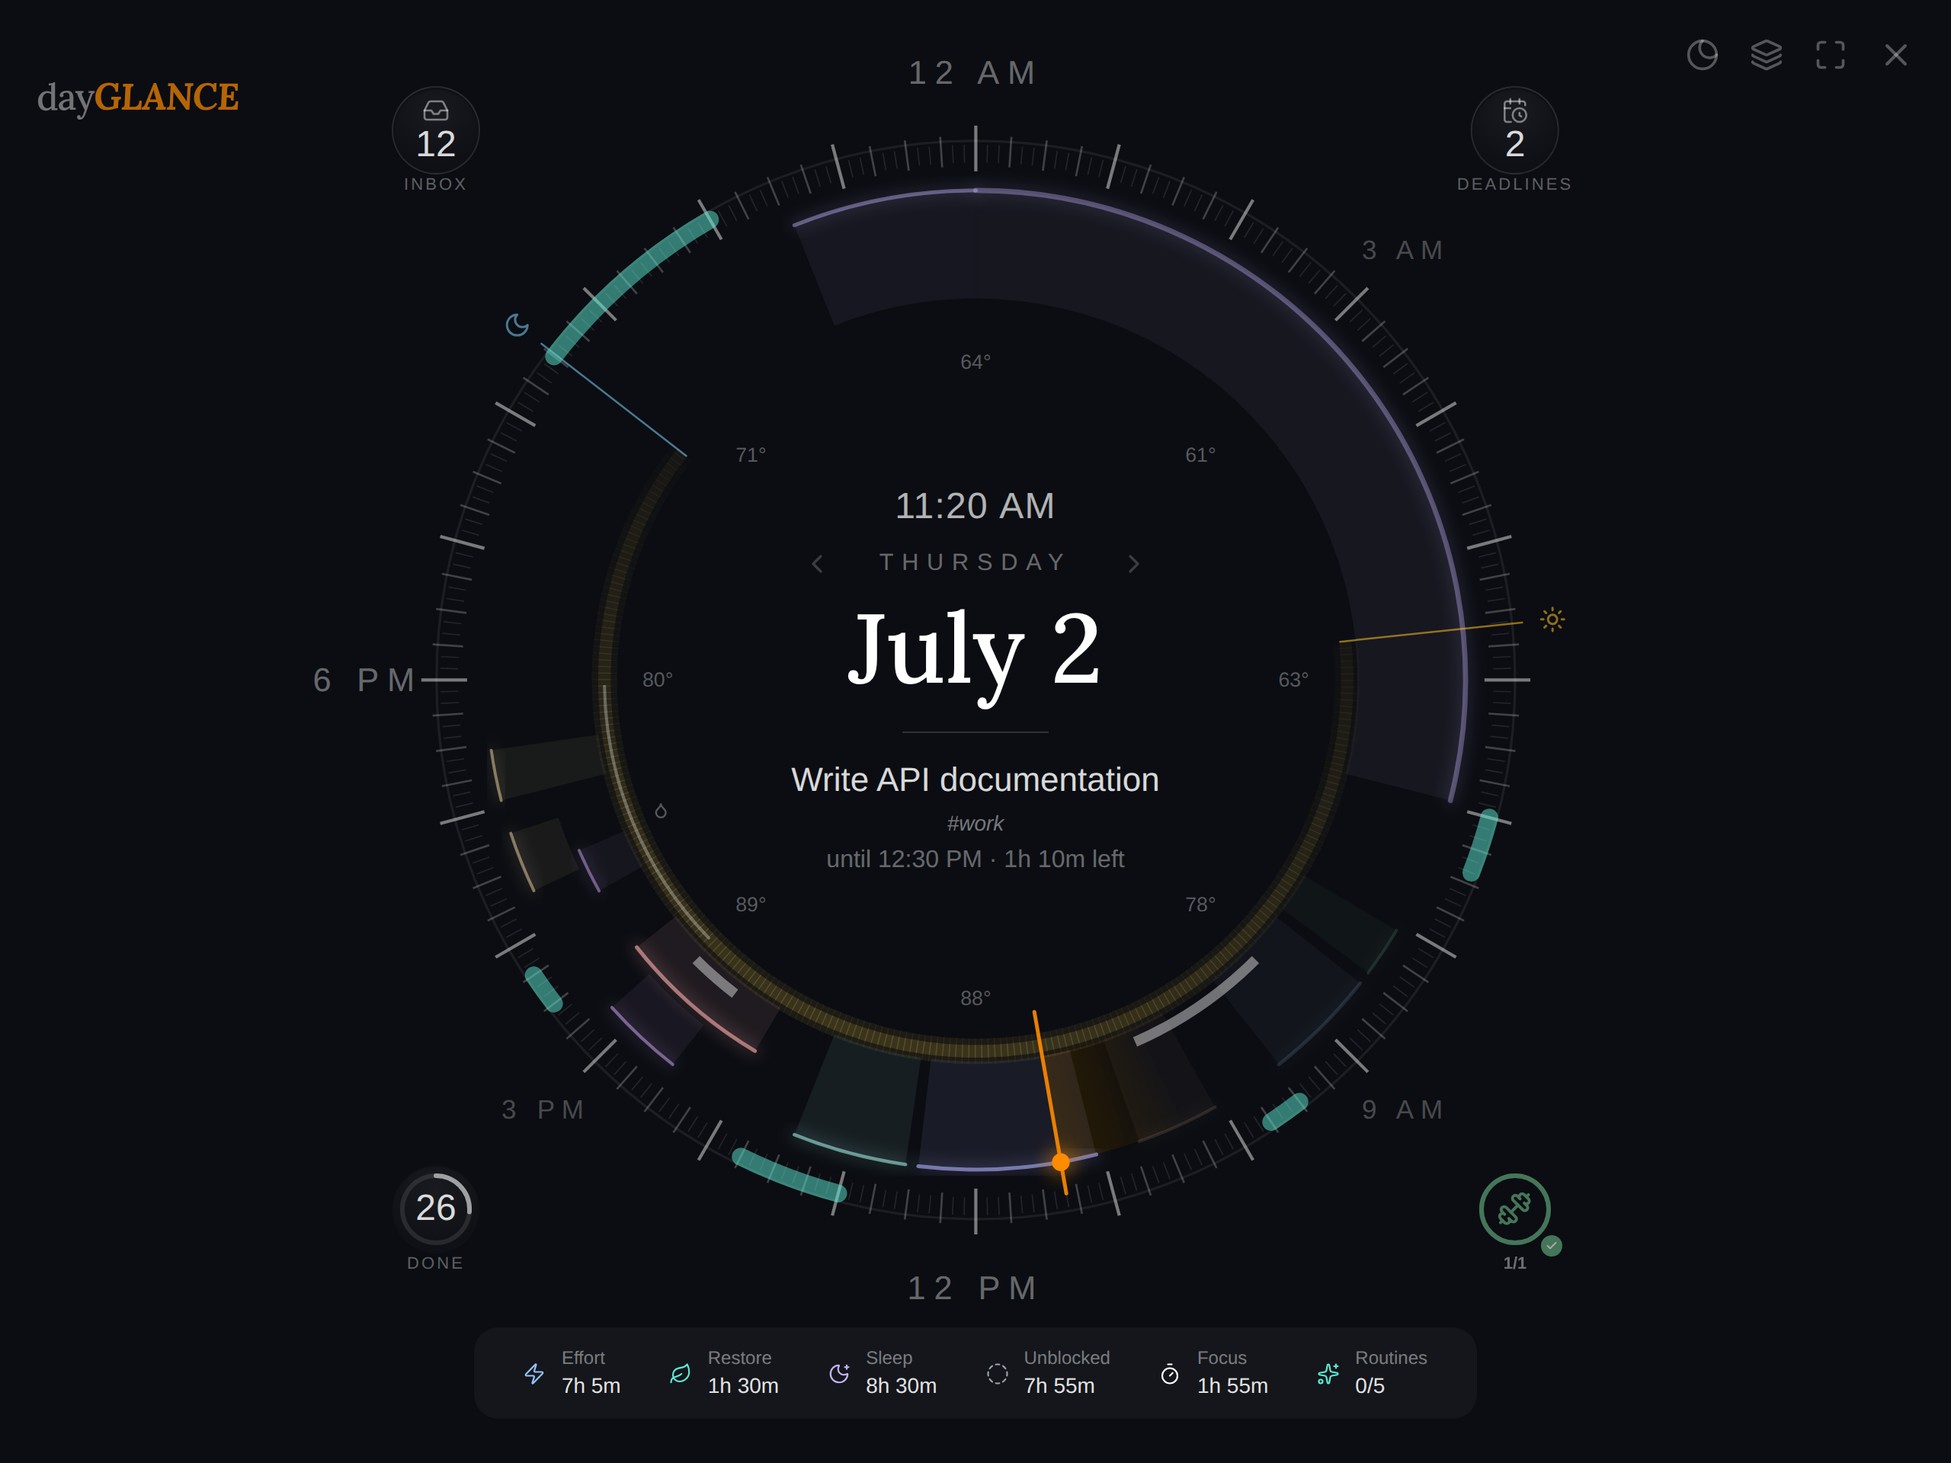
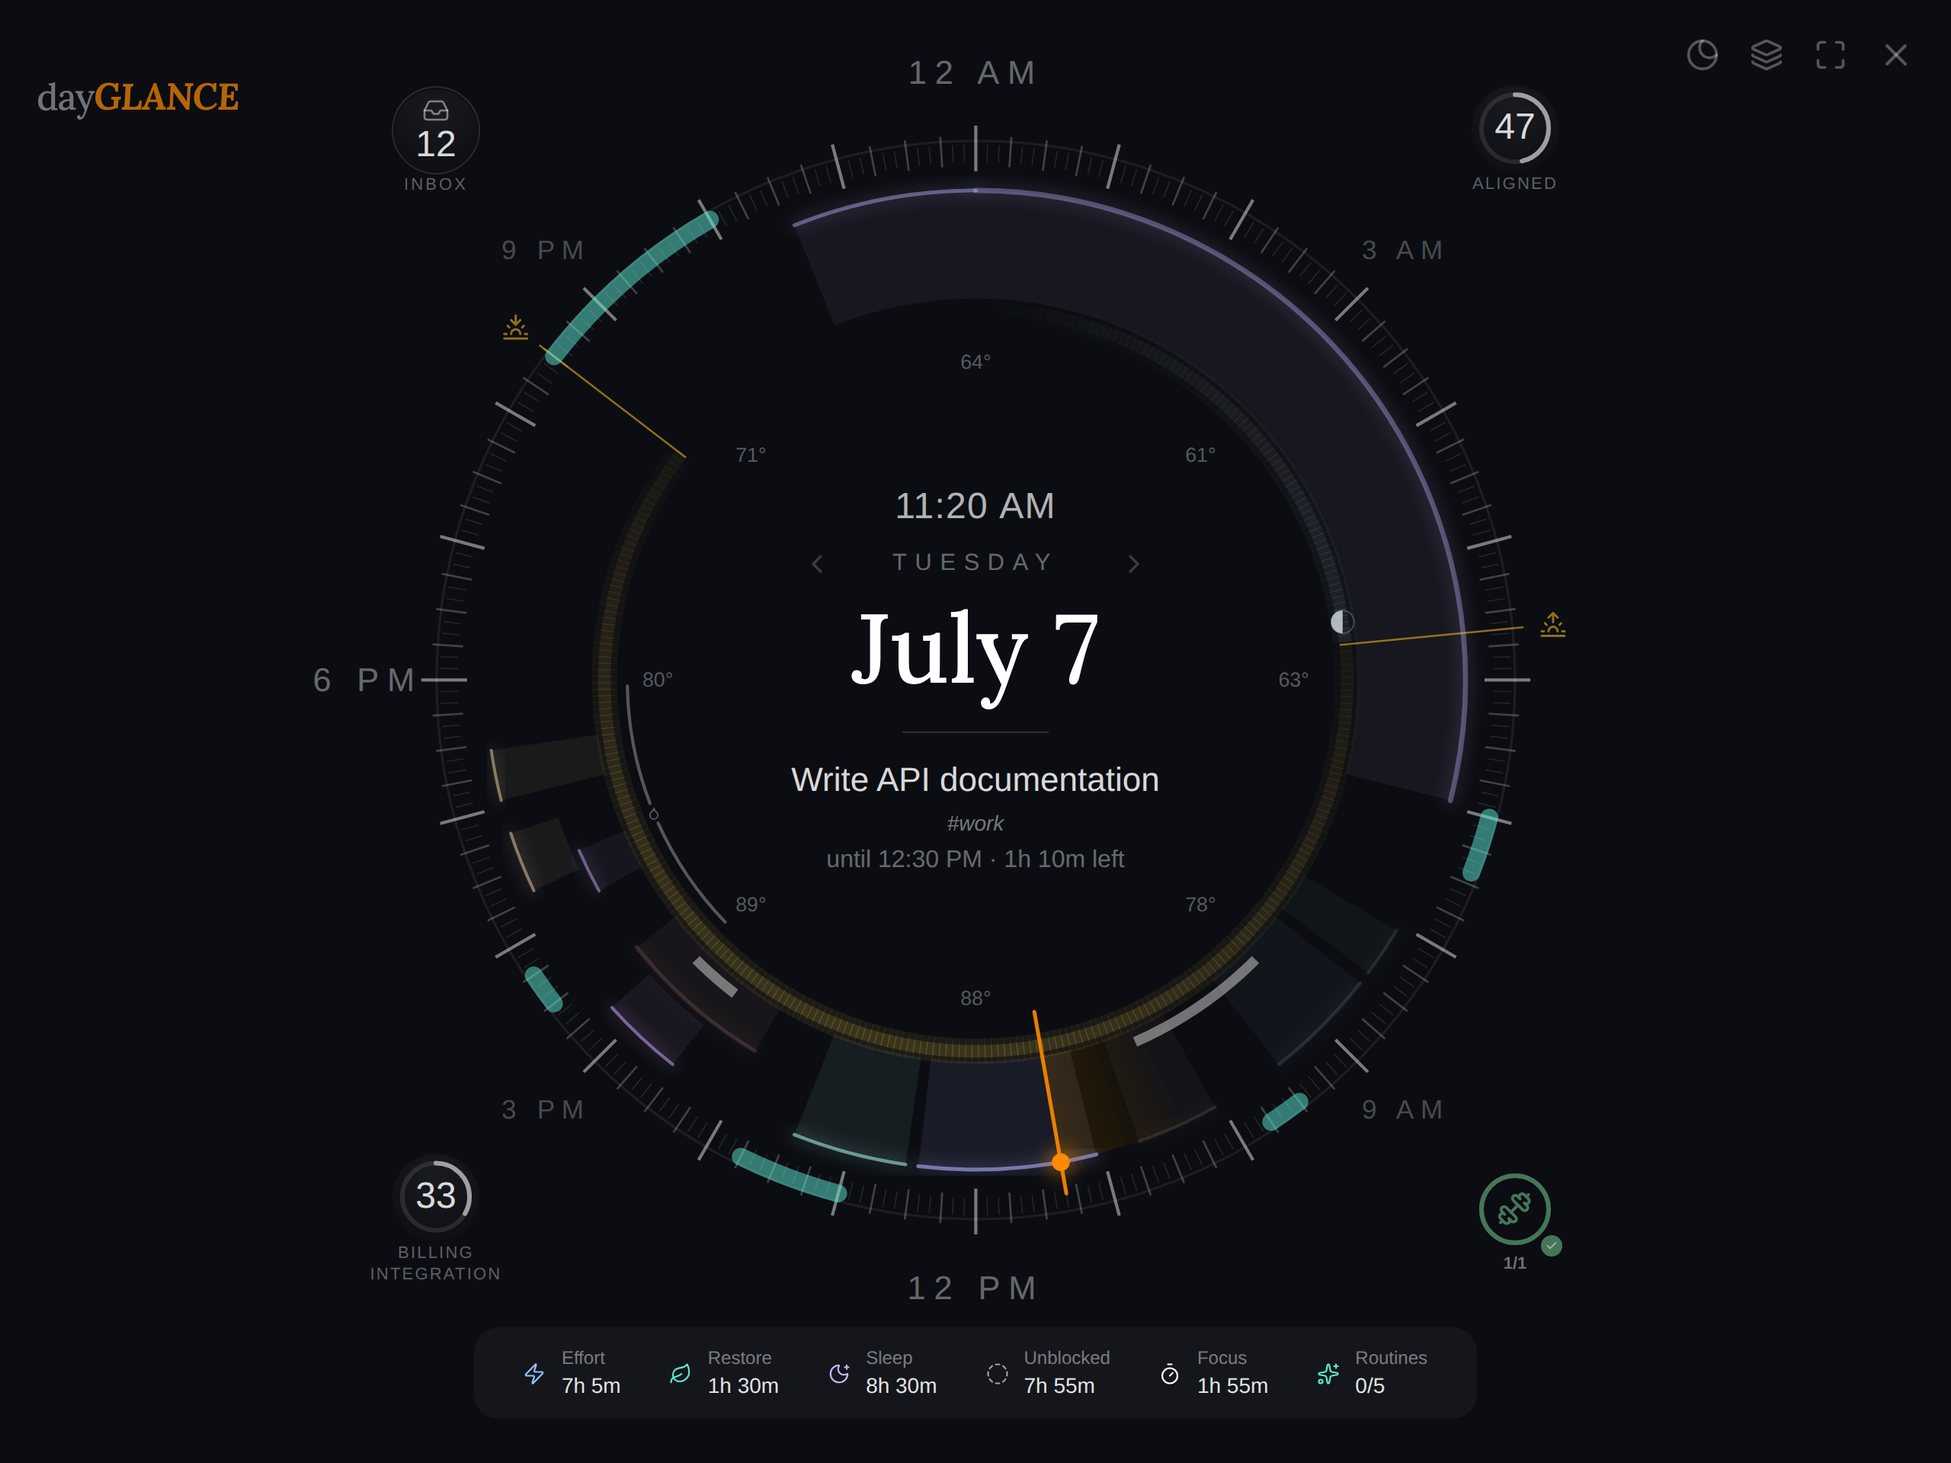
Dial: ride the moon glyph on its apex, and refresh the README capture
The glyph sat at the middle of the longest drawn stretch. That is not a
fact about the moon, and reading the face showed it: the mark wandered
left or right of where the moon actually was, and jumped between the two
as the stretches changed shape night to night.

It now rides the apex - the minute the moon climbs highest - in whichever
drawn stretch it climbs highest in. On a night whose stretch contains the
transit it lands within two minutes of it.

The reason the midpoint was chosen originally still stands, so it is
handled rather than avoided. Clipping to the sun-down hours routinely
ends a stretch while the moon is still rising, which puts the highest
DRAWN minute flush against the sunrise hairline. The glyph is held
MOON_GLYPH_EDGE_PAD_MIN off both ends, so it stays inside the band and
still reads as "highest just as the sun came up", which is what happened.

Each step now carries its altitude and moonStretches carries each
stretch's peak, so the placement is a pure question about the steps.

One inconsistency fixed on the way, which the new test caught: the
no-location early return still named the field peakMin after the rename
to glyphMin, so that one path handed callers undefined. The component
never reached it, but the shape was wrong.

The README capture moves to 7 July 2026, a last quarter over Denver. A
quarter moon is the one phase that reads unmistakably AS a phase at glyph
size - a straight terminator rather than a disc - and it cannot also sit
[…]

diff --git a/src/utils/dayDial.test.js b/src/utils/dayDial.test.js
@@ -28,6 +28,7 @@ import {
   normaliseComplicationSlots,
   COMPLICATION_SLOT_COUNT,
   moonStretches,
+  MOON_GLYPH_EDGE_PAD_MIN,
   precipArcSegments,
   precipRuns,
   stepDialSelection,
@@ -619,8 +620,12 @@ describe('computeMoonBand', () => {
 
   it('draws nothing without a location', () => {
     const date = new Date(2026, 6, 2, 12);
-    expect(computeMoonBand(date, null, sunFor(date)).steps).toEqual([]);
-    expect(computeMoonBand(date, DEN, null).steps).toEqual([]);
+    for (const band of [computeMoonBand(date, null, sunFor(date)), computeMoonBand(date, DEN, null)]) {
+      expect(band.steps).toEqual([]);
+      // The same shape a drawn band has, so a caller reading glyphMin does
+      // not get undefined on the one path that returns early.
+      expect(band.glyphMin).toBeNull();
+    }
   });
 
   it('never draws while the sun is up', () => {
@@ -647,20 +652,33 @@ describe('computeMoonBand', () => {
     // date for it — whether any given date splits depends on where the
     // device's midnight falls, so the astronomy is covered in lunar.test.js
     // and this covers the thing that could actually break.
-    const steps = [
-      { startMin: 0, endMin: 4 }, { startMin: 4, endMin: 8 },
-      { startMin: 1400, endMin: 1404 }, { startMin: 1404, endMin: 1440 },
-    ];
-    expect(moonStretches(steps)).toEqual([
+    const runs = moonStretches([
+      { startMin: 0, endMin: 4, alt: 20 }, { startMin: 4, endMin: 8, alt: 18 },
+      { startMin: 1400, endMin: 1404, alt: 5 }, { startMin: 1404, endMin: 1440, alt: 9 },
+    ]);
+    expect(runs.map(({ startMin, endMin }) => ({ startMin, endMin }))).toEqual([
       { startMin: 0, endMin: 8 },
       { startMin: 1400, endMin: 1440 },
     ]);
   });
 
+  it('carries each stretch its own highest minute', () => {
+    // The glyph rides the apex, so a stretch has to know where its apex is.
+    const [run] = moonStretches([
+      { startMin: 0, endMin: 4, alt: 10 },
+      { startMin: 4, endMin: 8, alt: 31 },
+      { startMin: 8, endMin: 12, alt: 22 },
+    ]);
+    expect(run.peakMin).toBe(6);   // the middle of the 31° step
+    expect(run.peakAlt).toBe(31);
+  });
+
   it('groups an unbroken night into one stretch, and nothing into none', () => {
-    expect(moonStretches([
-      { startMin: 120, endMin: 124 }, { startMin: 124, endMin: 128 },
-    ])).toEqual([{ startMin: 120, endMin: 128 }]);
+    const runs = moonStretches([
+      { startMin: 120, endMin: 124, alt: 4 }, { startMin: 124, endMin: 128, alt: 6 },
+    ]);
+    expect(runs.map(({ startMin, endMin }) => ({ startMin, endMin })))
+      .toEqual([{ startMin: 120, endMin: 128 }]);
     expect(moonStretches([])).toEqual([]);
   });
 
@@ -682,16 +700,50 @@ describe('computeMoonBand', () => {
     expect(brightest).toBeLessThan(DAYLIGHT_PEAK);
   });
 
-  it('puts the glyph inside the longest stretch, never on its edge', () => {
-    for (const d of [1, 2, 6, 10, 20]) {
+  it('puts the glyph at the moon\'s apex', () => {
+    // The midpoint of a span is not a fact about the moon; the apex is. Where
+    // the drawn band actually contains the transit, the glyph should land on
+    // it rather than near it.
+    const date = new Date(2026, 6, 2, 12);
+    const { steps, glyphMin } = band(date);
+    const peak = steps.reduce((a, b) => (a && a.alt >= b.alt ? a : b), null);
+    if (!peak || glyphMin == null) return;
+    const peakMin = (peak.startMin + peak.endMin) / 2;
+    const run = moonStretches(steps).find((r) => peakMin >= r.startMin && peakMin <= r.endMin);
+    // Only when the apex is far enough inside its stretch to be drawn there;
+    // a clipped stretch is the next test.
+    if (peakMin - run.startMin >= MOON_GLYPH_EDGE_PAD_MIN
+      && run.endMin - peakMin >= MOON_GLYPH_EDGE_PAD_MIN) {
+      expect(glyphMin).toBe(peakMin);
+    }
+  });
+
+  it('holds the glyph off the ends when sunrise cuts the climb short', () => {
+    // Clipping to the sun-down hours routinely ends a stretch while the moon
+    // is still rising, which would otherwise put the glyph flush against the
+    // sunrise hairline.
+    for (const d of [1, 2, 6, 10, 16, 20, 25]) {
       const { steps, glyphMin } = band(new Date(2026, 6, d, 12));
       if (glyphMin == null) continue;
-      const covering = steps.find((s) => glyphMin >= s.startMin && glyphMin <= s.endMin);
-      expect(covering).toBeTruthy();
-      // Comfortably off both ends of the drawn span.
-      expect(glyphMin).toBeGreaterThan(Math.min(...steps.map((s) => s.startMin)) + 20);
-      expect(glyphMin).toBeLessThan(Math.max(...steps.map((s) => s.endMin)) - 20);
+      const run = moonStretches(steps).find((r) => glyphMin >= r.startMin && glyphMin <= r.endMin);
+      expect(run).toBeTruthy();
+      expect(glyphMin - run.startMin).toBeGreaterThanOrEqual(MOON_GLYPH_EDGE_PAD_MIN);
+      expect(run.endMin - glyphMin).toBeGreaterThanOrEqual(MOON_GLYPH_EDGE_PAD_MIN);
     }
+  });
+
+  it('prefers the stretch the moon climbs highest in, not the longest', () => {
+    // A night split either side of midnight can put a long, low stretch
+    // against a shorter one holding the transit. The glyph follows the moon.
+    const steps = [
+      ...Array.from({ length: 30 }, (_, i) => ({ startMin: i * 4, endMin: i * 4 + 4, alt: 8 })),
+      ...Array.from({ length: 20 }, (_, i) => ({ startMin: 1200 + i * 4, endMin: 1204 + i * 4, alt: 40 })),
+    ];
+    const runs = moonStretches(steps);
+    expect(runs[0].endMin - runs[0].startMin).toBeGreaterThan(runs[1].endMin - runs[1].startMin);
+    // The rule itself, read off the stretches the same way the band does.
+    const best = runs.reduce((a, b) => (a.peakAlt >= b.peakAlt ? a : b));
+    expect(best.startMin).toBe(1200);
   });
 
   it('leaves a sliver of a stretch unglyphed', () => {

diff --git a/src/utils/dayDial.js b/src/utils/dayDial.js
@@ -827,7 +827,7 @@ export const MOON_ALTITUDE_REFERENCE = 45;
  *          null when no stretch is long enough to hold one.
  */
 export function computeMoonBand(date, coords, sun) {
-  const none = { steps: [], peakMin: null, fraction: 0, waxing: true };
+  const none = { steps: [], glyphMin: null, fraction: 0, waxing: true };
   if (!coords || !sun) return none;
 
   const { fraction, waxing } = getMoonIllumination(
@@ -848,6 +848,10 @@ export function computeMoonBand(date, coords, sun) {
     steps.push({
       startMin: m,
       endMin: m + DAYLIGHT_STEP_MIN,
+      // Kept, not just consumed: the glyph goes where the moon rides highest,
+      // and that is a question about the steps rather than about the geometry
+      // that drew them.
+      alt,
       // Scaled by the lit fraction throughout, floor included: a new moon
       // overhead is still a dark sky, and drawing it as a band would say
       // otherwise.
@@ -860,42 +864,66 @@ export function computeMoonBand(date, coords, sun) {
 
 /** A stretch shorter than this is left to speak for itself, unglyphed. */
 export const MOON_GLYPH_MIN_RUN = 60;
+/**
+ * How far the glyph is kept off a stretch's ends. The disc is radius 9 at
+ * r=292, which is about seven minutes of arc at its widest, plus room to read
+ * as sitting IN the band rather than falling off it.
+ */
+export const MOON_GLYPH_EDGE_PAD_MIN = 12;
 
 /**
- * The band's steps grouped into unbroken stretches. One local day routinely
- * holds two — the moon sets before dawn and is back before the next midnight
- * — which is the case that rules out deriving the band from a single
- * moonrise/moonset pair.
+ * The band's steps grouped into unbroken stretches, each carrying the minute
+ * the moon rides highest within it.
  *
- * @param steps Consecutive {startMin, endMin} steps in day order.
- * @returns Array of {startMin, endMin}, one per unbroken stretch.
+ * One local day routinely holds two stretches — the moon sets before dawn and
+ * is back before the next midnight — which is the case that rules out
+ * deriving the band from a single moonrise/moonset pair.
+ *
+ * @param steps Consecutive {startMin, endMin, alt} steps in day order.
+ * @returns Array of {startMin, endMin, peakMin, peakAlt}, one per stretch.
  */
 export function moonStretches(steps) {
   const runs = [];
   for (const step of steps) {
     const last = runs[runs.length - 1];
-    if (last && last.endMin === step.startMin) last.endMin = step.endMin;
-    else runs.push({ startMin: step.startMin, endMin: step.endMin });
+    const mid = (step.startMin + step.endMin) / 2;
+    const alt = Number.isFinite(step.alt) ? step.alt : -Infinity;
+    if (last && last.endMin === step.startMin) {
+      last.endMin = step.endMin;
+      if (alt > last.peakAlt) { last.peakAlt = alt; last.peakMin = mid; }
+    } else {
+      runs.push({ startMin: step.startMin, endMin: step.endMin, peakMin: mid, peakAlt: alt });
+    }
   }
   return runs;
 }
 
 /**
- * Where the phase glyph goes: the middle of the longest unbroken stretch the
- * band draws.
+ * Where the phase glyph goes: the moon's apex — the minute it rides highest —
+ * in whichever drawn stretch it climbs highest in.
  *
- * Not the moon's highest minute, which is the more interesting datum but the
- * wrong one to mark here. Clipping to the sun-down hours routinely cuts a
- * stretch off while the moon is still climbing, so "highest" lands flush on
- * the band's edge — against the sunrise hairline, and describing a peak the
- * band does not actually contain.
+ * The midpoint of the longest stretch was the first rule here, and reading
+ * the face showed why it was wrong: the middle of a span is not a fact about
+ * the moon, so the glyph wandered left or right of where the moon actually
+ * was and jumped between the two as the stretches changed shape night to
+ * night. The apex is a real moment and sits where the eye expects it.
+ *
+ * The reason the midpoint was chosen in the first place still stands, so it
+ * is handled rather than avoided: clipping to the sun-down hours routinely
+ * cuts a stretch off while the moon is still climbing, which puts the highest
+ * DRAWN minute flush against the sunrise hairline. Held off the ends by
+ * MOON_GLYPH_EDGE_PAD_MIN, the glyph stays inside the band it belongs to and
+ * still reads as "highest just as the sun came up", which is what happened.
  */
 function moonGlyphMinute(steps) {
-  const best = moonStretches(steps).reduce(
-    (a, b) => (a && a.endMin - a.startMin >= b.endMin - b.startMin ? a : b), null);
-  return best && best.endMin - best.startMin >= MOON_GLYPH_MIN_RUN
-    ? (best.startMin + best.endMin) / 2
-    : null;
+  const best = moonStretches(steps)
+    .filter((run) => run.endMin - run.startMin >= MOON_GLYPH_MIN_RUN)
+    .reduce((a, b) => (a && a.peakAlt >= b.peakAlt ? a : b), null);
+  if (!best) return null;
+  return Math.min(
+    Math.max(best.peakMin, best.startMin + MOON_GLYPH_EDGE_PAD_MIN),
+    best.endMin - MOON_GLYPH_EDGE_PAD_MIN,
+  );
 }
 
 /** Is the sun above the horizon at this minute? Reads getSunTimes' result. */

diff --git a/src/components/DayDial.jsx b/src/components/DayDial.jsx
@@ -278,8 +278,8 @@ function SunMark({ min, kind }) {
 //
 // The glyph is the moon's actual phase at the minute it rides highest, not a
 // generic crescent: it is the one place on the face where the shape carries
-// the datum rather than labelling it. It sits mid-stretch — see
-// moonGlyphMinute for why not at the moon's highest.
+// the datum rather than labelling it. It rides the moon's apex — see
+// moonGlyphMinute for what happens when sunrise cuts the climb short.
 function MoonBand({ band, southern }) {
   const [r0, r1] = R_DAYLIGHT_BAND;
   const g = band.glyphMin == null ? null : dialPoint(CX, CY, MOON_GLYPH_R, band.glyphMin);

diff --git a/README.md b/README.md
@@ -252,7 +252,7 @@ Everything on the ring is reachable from the keyboard, with no tabbing to get th
 
 If a weather location is set, hairlines mark sunrise and sunset (both amber, each with a sun rising or setting over a horizon), computed locally from your coordinates, so they work for any date and offline. Between them the lit part of the day is drawn as a soft band, brightest at solar noon and fading back into the hairlines at each horizon. Its length and its brightness both come from the sun's real elevation, measured against the best noon your latitude ever gets, so a December day reads as short *and* low rather than being flattered into looking like June. Where the forecast reaches, the UV index scales it, which is the one part that knows about the sky rather than the geometry: haze, cloud and thin mountain air all show up there. Above the Arctic and Antarctic circles it does the honest thing at both extremes: lit right around the ring under the midnight sun, and absent through the polar night.
 
-After dark the same track carries the moon. It is drawn only for the hours the moon is genuinely above the horizon and the sun is not, at a brightness set by how high it rides and how much of its disc is lit, so a full moon gives the night a soft silver arc and a new moon gives it nothing. One local day often holds two separate stretches, because the moon routinely sets before dawn and is back before the next midnight. A glyph mid-stretch shows the actual phase, waxing or waning, mirrored below the equator. Like the sun, all of it is computed from your coordinates, for any date and offline. On days the forecast covers, hour temperatures appear at the 3-hour marks and rain or snow spells are traced as a thin arc along the ring's inner edge. The Layers button in the corner toggles the sun and moon, the weather ring, focus sessions, and imported calendar events; choices persist per device.
+After dark the same track carries the moon. It is drawn only for the hours the moon is genuinely above the horizon and the sun is not, at a brightness set by how high it rides and how much of its disc is lit, so a full moon gives the night a soft silver arc and a new moon gives it nothing. One local day often holds two separate stretches, because the moon routinely sets before dawn and is back before the next midnight. A glyph at the moon's apex — the minute it rides highest that night — shows the actual phase, waxing or waning, mirrored below the equator. Like the sun, all of it is computed from your coordinates, for any date and offline. On days the forecast covers, hour temperatures appear at the 3-hour marks and rain or snow spells are traced as a thin arc along the ring's inner edge. The Layers button in the corner toggles the sun and moon, the weather ring, focus sessions, and imported calendar events; choices persist per device.
 
 Up to four complications ride the corners of the face. Inbox, Deadlines and Done are always on offer; with goals and projects enabled you also get **Aligned**, which is Done's sibling on the same denominator and a different axis. Done asks how much of today you finished, Aligned asks how much of it went to work that is filed under a project. Its sheet shows where the aligned time went, and lists the unfiled blocks so one tap opens the editor that can file them. A **project** can ride the face too, showing how far along it is, with its open tasks in the sheet wherever they are scheduled. The Layers panel configures them a corner at a time: four dropdowns, one per corner, each offering Empty and every available readout, with habits and projects grouped inside. Choosing a readout that is already in another corner swaps the two rather than leaving a copy behind, so moving one across the face is a single choice. Because the corner is the setting rather than something derived, a readout that means nothing on the date you are viewing leaves its corner empty instead of shuffling the others along, and everything stays put as you page through days.
 
